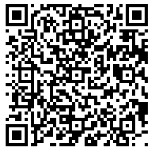
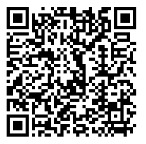
Ajustes

diff --git a/src/app/modules/command/table/table.component.ts b/src/app/modules/command/table/table.component.ts
@@ -1,7 +1,7 @@
 import { Component, OnInit } from '@angular/core';
 import { AppController } from '../../core/appController';
 import { GlobalVars } from 'src/app/shared/globalVars';
-import { ModalController } from '@ionic/angular';
+import { ModalController, NavController } from '@ionic/angular';
 import { ModalCheckoutComponent } from './modal-checkout/modal-checkout.component';
 
 @Component({
@@ -15,6 +15,7 @@ export class TableComponent implements OnInit {
 
   constructor(public appController: AppController,
   private globalVars: GlobalVars,
+  private navCtrl: NavController,
   public modalCtrl: ModalController) { 
     
   }
@@ -48,12 +49,17 @@ export class TableComponent implements OnInit {
 
     await modal.present();
 
-    modal.onWillDismiss().then(resp => {
+    modal.onWillDismiss().then(async (resp) => {
       if(resp.data) {
-        this.appController.presentCustomLoading('Aguardando Confirmação...');
-        // Faço uma requisição mandando pro banco método escolhido.
+        // Faço uma requisição mandando pro banco o método de pagamento escolhido.
         // console.log('método escolido, log na tab de Table: ', resp.data);
-        this.textPaymentBtn = 'Pagamento Solicitado'
+        this.textPaymentBtn = 'Pagamento Solicitado';
+        const customLoader = await this.appController.presentCustomLoading('Aguardando Confirmação...', 2500);
+        customLoader.onWillDismiss().then(() => {
+          this.appController.presentAlertInfo('Mesa Encerrada', 'Curtiu o nosso app ?<br> Aqui você comanda! <br> Te vejo em breveee =)', 'Valeeeu', 'align-text-alert-info');
+          localStorage.removeItem('tableProducts');
+          this.navCtrl.navigateRoot('home');
+        });
       }
     });
   }

diff --git a/src/app/modules/core/appController.ts b/src/app/modules/core/appController.ts
@@ -3,6 +3,7 @@ import { AbstractControl } from '@angular/forms';
 import { debounceTime, tap } from "rxjs/operators";
 import { Router } from '@angular/router';
 import { ModalController, LoadingController, ToastController, AlertController } from '@ionic/angular';
+import { duration } from 'moment';
 
 @Injectable()
 export class AppController {
@@ -310,6 +311,17 @@ export class AppController {
        });
     }
 
+    public async presentAlertInfo(header: string = null, msg: string = null, textBtn: string = 'OK', cssClassText: string = null, cssClassBtn: string = 'secondary'): Promise<any> {
+        const alert = await this.alertCtrl.create({
+            header: header,
+            message: `<strong>${msg}</strong>`,
+            cssClass: cssClassText,
+            buttons: [ { text: textBtn, cssClass: cssClassBtn, role: 'cancel'} ]
+        });
+        
+        return await alert.present();
+     }
+
     public async openModal(pPage, pParams) {
         const modal = await this.modalCtrl.create({
             component: pPage,
@@ -333,11 +345,12 @@ export class AppController {
         return loading;
     }
 
-    async presentCustomLoading(msg: string) {
+    async presentCustomLoading(msg: string, duration = null) {
         const loading = await this.loadingController.create({
             spinner: 'dots',
             message: msg,
             translucent: true,
+            duration: duration,
             //   showBackdrop: true,
             // cssClass: 'custom-class custom-loading'
         });

diff --git a/src/app/modules/establishment/establishment.service.ts b/src/app/modules/establishment/establishment.service.ts
@@ -22,9 +22,9 @@ export class EstablishmentService {
                 "description": "Bar e Restaurante",
                 "distance": "",
                 "duration": "",
-                "lat": -13.0010826,
-                "lng": -38.5269862,
-                "rating": "4.8",
+                "lat": -12.969220,
+                "lng": -38.436758,
+                "rating": "4.3",
                 "img": "https://s3-media4.fl.yelpcdn.com/bphoto/Ia7nxDwEVYPL27tt21z70A/ls.jpg",
                 "feedback": 'Some text here...',
                 "schedule": "11:00 às 02:00",

diff --git a/src/app/modules/home/home.component.ts b/src/app/modules/home/home.component.ts
@@ -13,12 +13,11 @@ import { catchError } from 'rxjs/operators';
 export class HomeComponent {
   switchVar: string = 'command';
   qrDataFill: Object = {
-    "id": "2",
-    "name": "Bar Terapia",
-    "lat": "-12.969360",
-    "lng": "-38.436841",
-    "tableNumber": "17",
-    "isActive": false
+    "id": "1",
+    "name": "Quiosque do Galego",
+    "lat": "-12.969220",
+    "lng": "-38.436758",
+    "tableNumber": "14",
   };
 
   constructor(public appController: AppController,

diff --git a/src/app/modules/establishment/establishment-list/establishment-list.component.ts b/src/app/modules/establishment/establishment-list/establishment-list.component.ts
@@ -38,7 +38,6 @@ export class EstablismentListComponent implements OnInit {
         });
         
         loader.dismiss();
-
         // obtenho a lista dos restaurantes proximos
         // const nearBy = await this.establishmentService.getEstablishmentsNearBy();
         // console.log('nearBy: ', nearBy);

diff --git a/src/global.scss b/src/global.scss
@@ -103,3 +103,6 @@
         align-items: center;
     }
 
+    .align-text-alert-info {
+        line-height: 1.4 !important;
+    }
